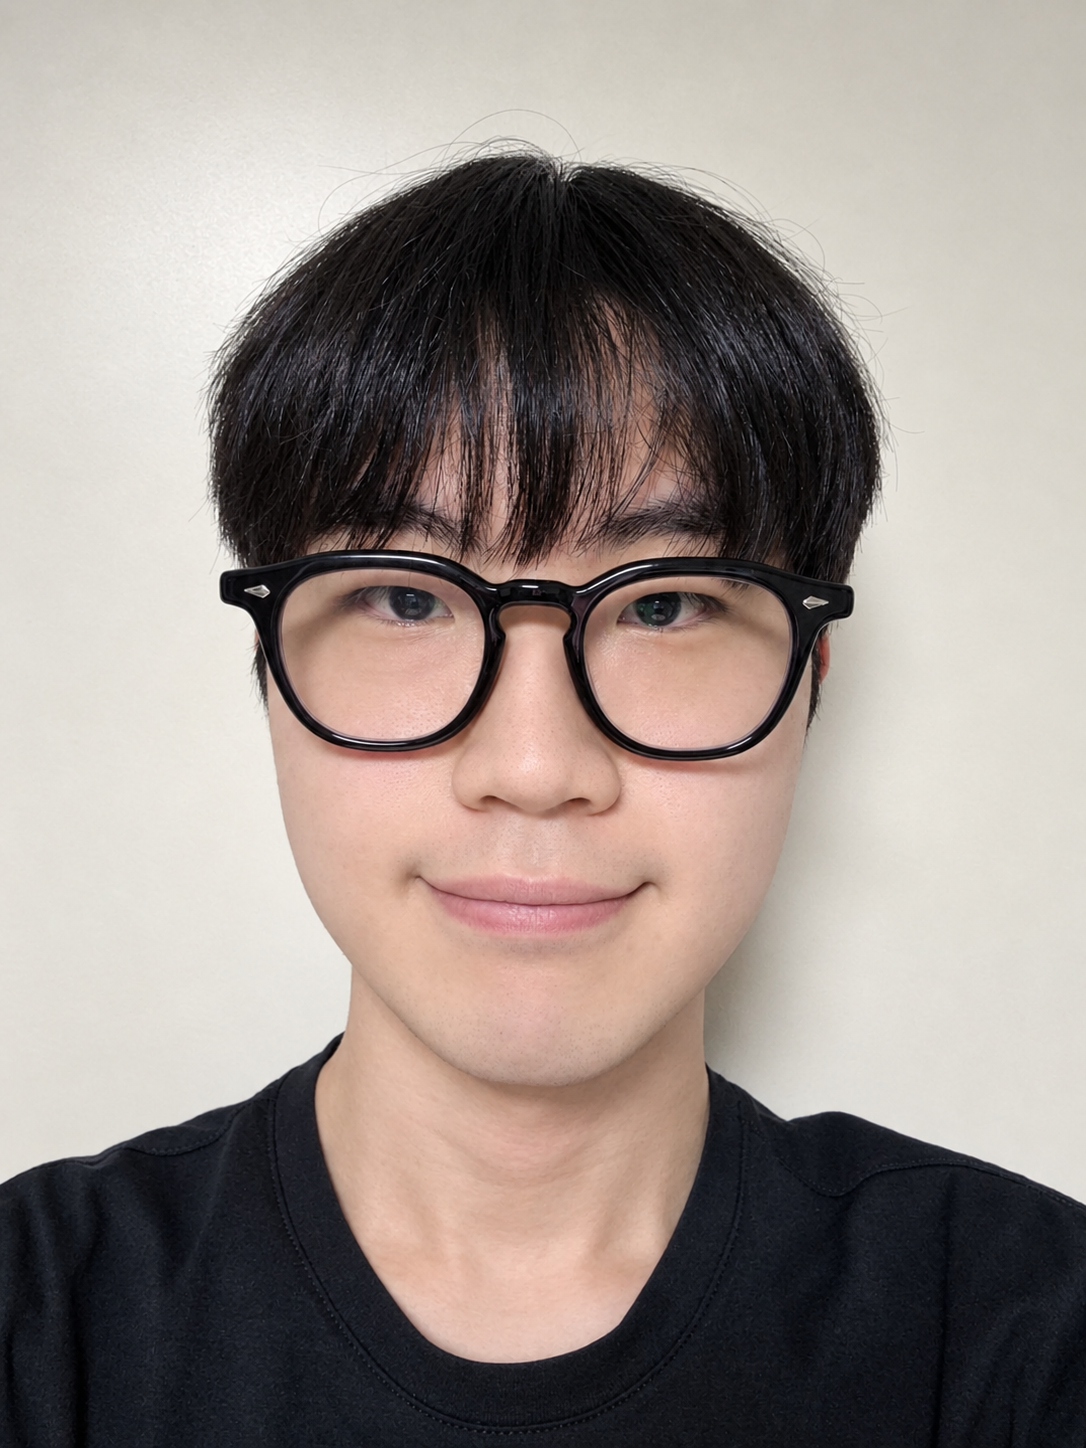
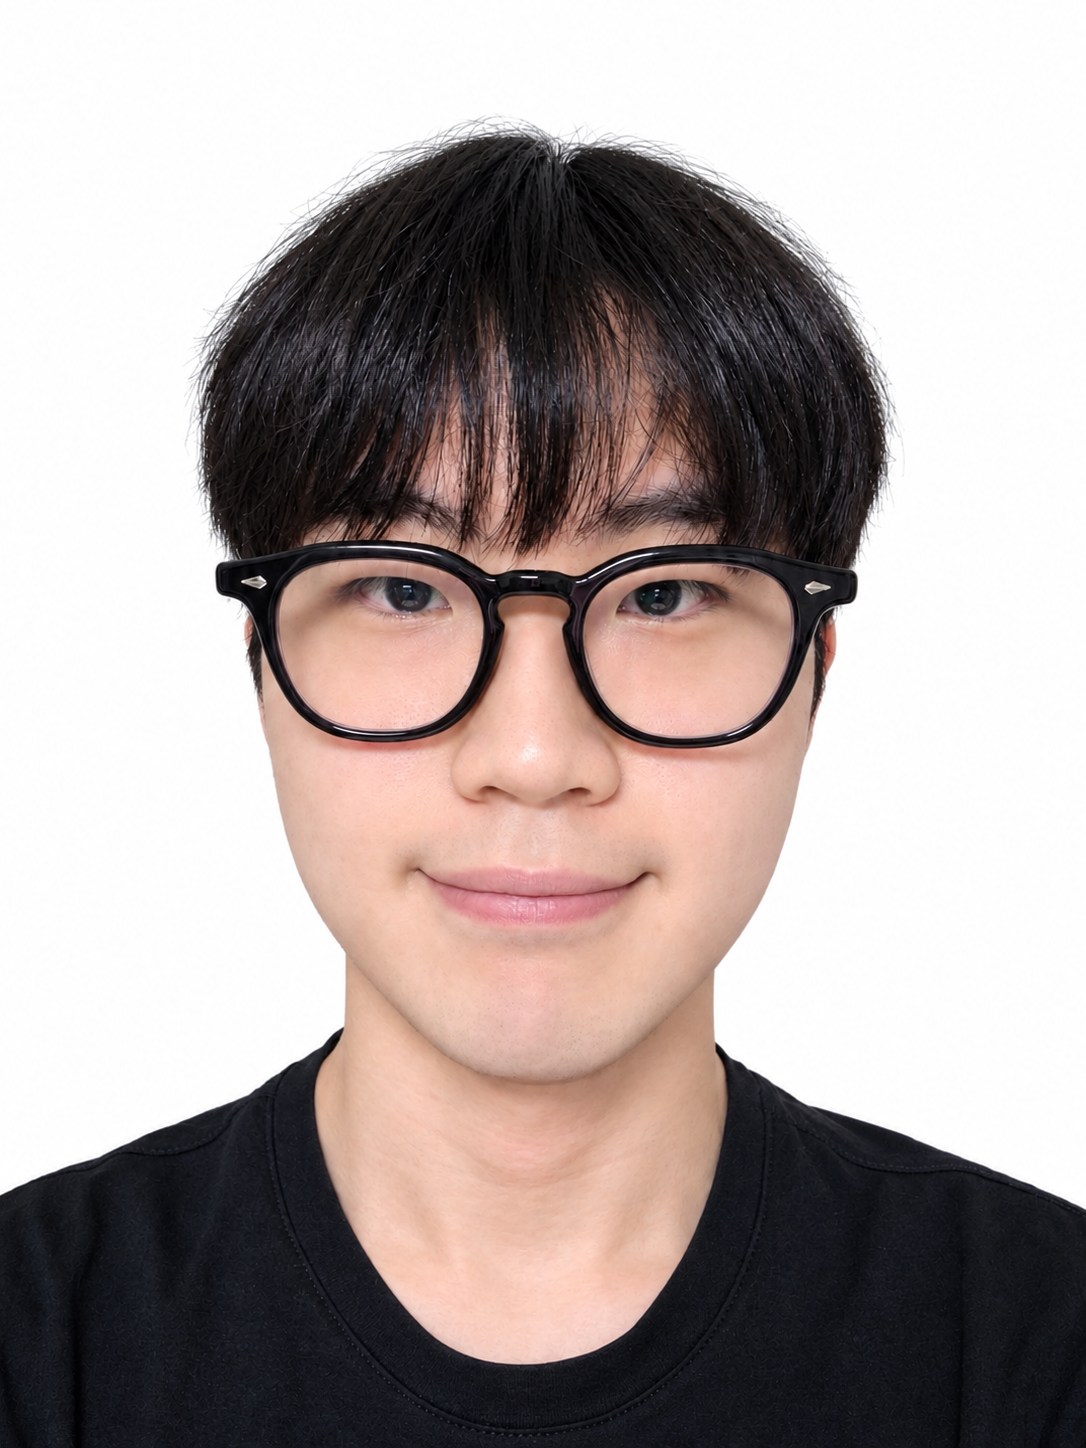
update images

diff --git a/_team/minhyeok-choi.md b/_team/minhyeok-choi.md
@@ -1,6 +1,6 @@
 ---
 name: Minhyeok Choi (최민혁)
-image: team/photos/undergraduate/minhyeok_choi.jpeg
+image: team/photos/undergraduate/minhyeok-choi.png
 role: masters
 pub_name: Minhyeok Choi
 

diff --git a/_team/minsung-kang.md b/_team/minsung-kang.md
@@ -1,6 +1,6 @@
 ---
 name: Minsung Kang (강민성)
-image: team/photos/undergraduate/minsung_kang.jpeg
+image: team/photos/undergraduate/minsung-kang.png
 role: combined
 pub_name: Minsung Kang
 
